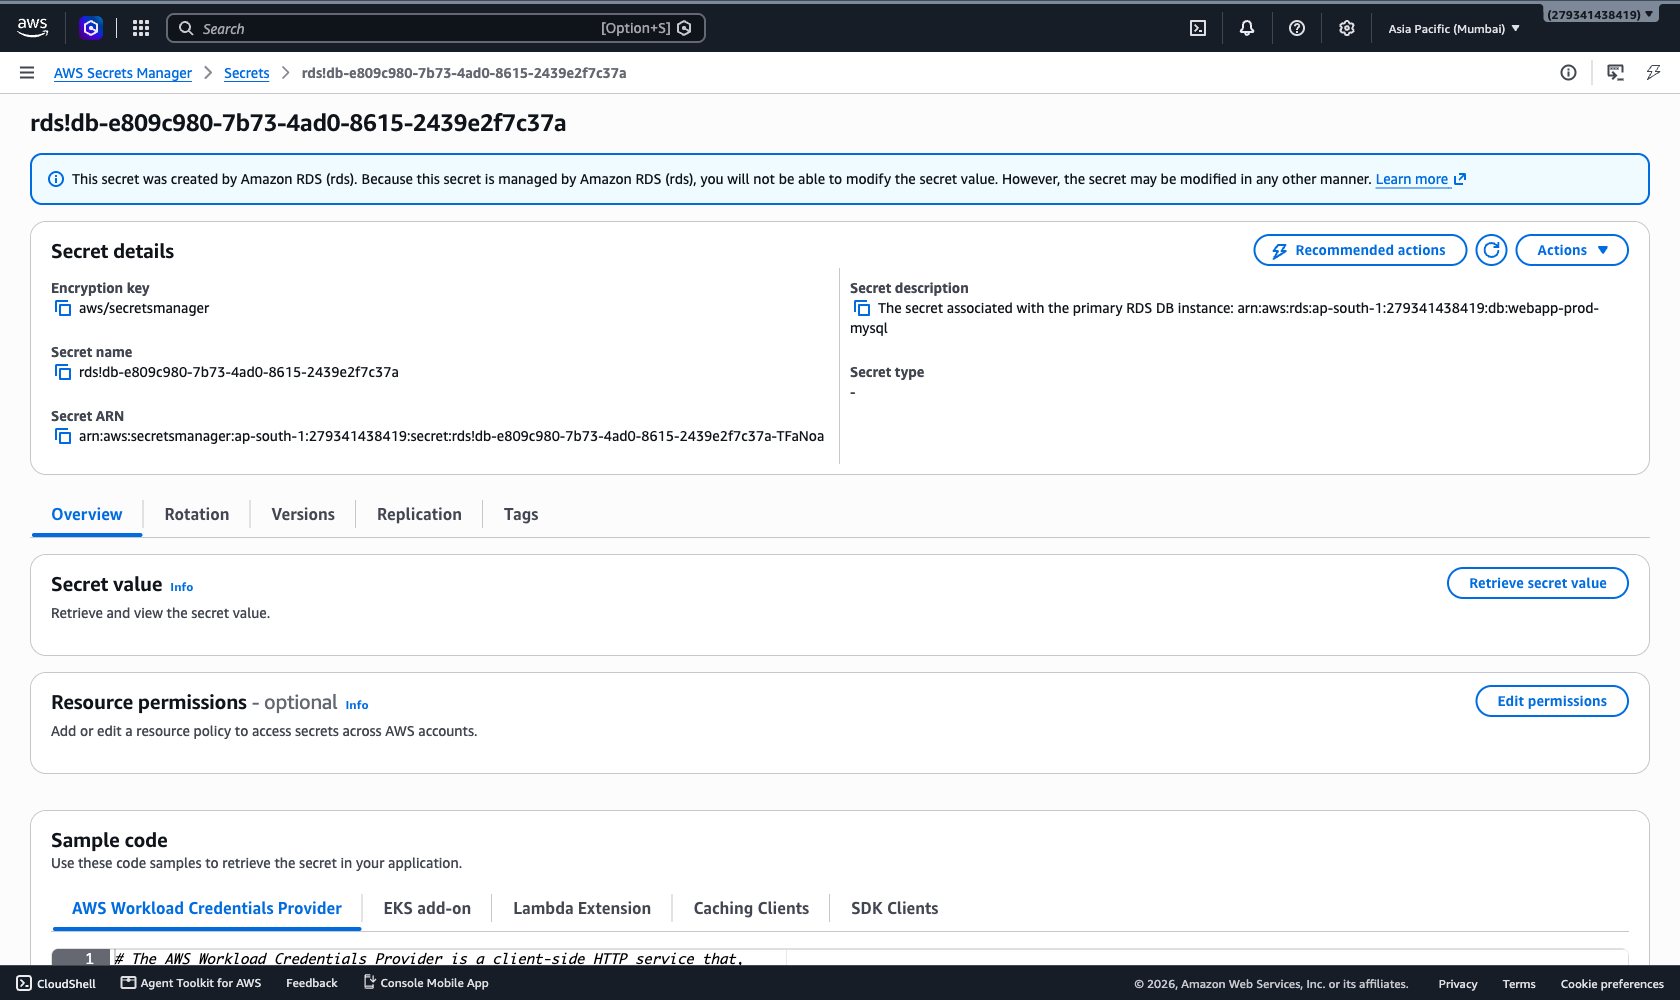
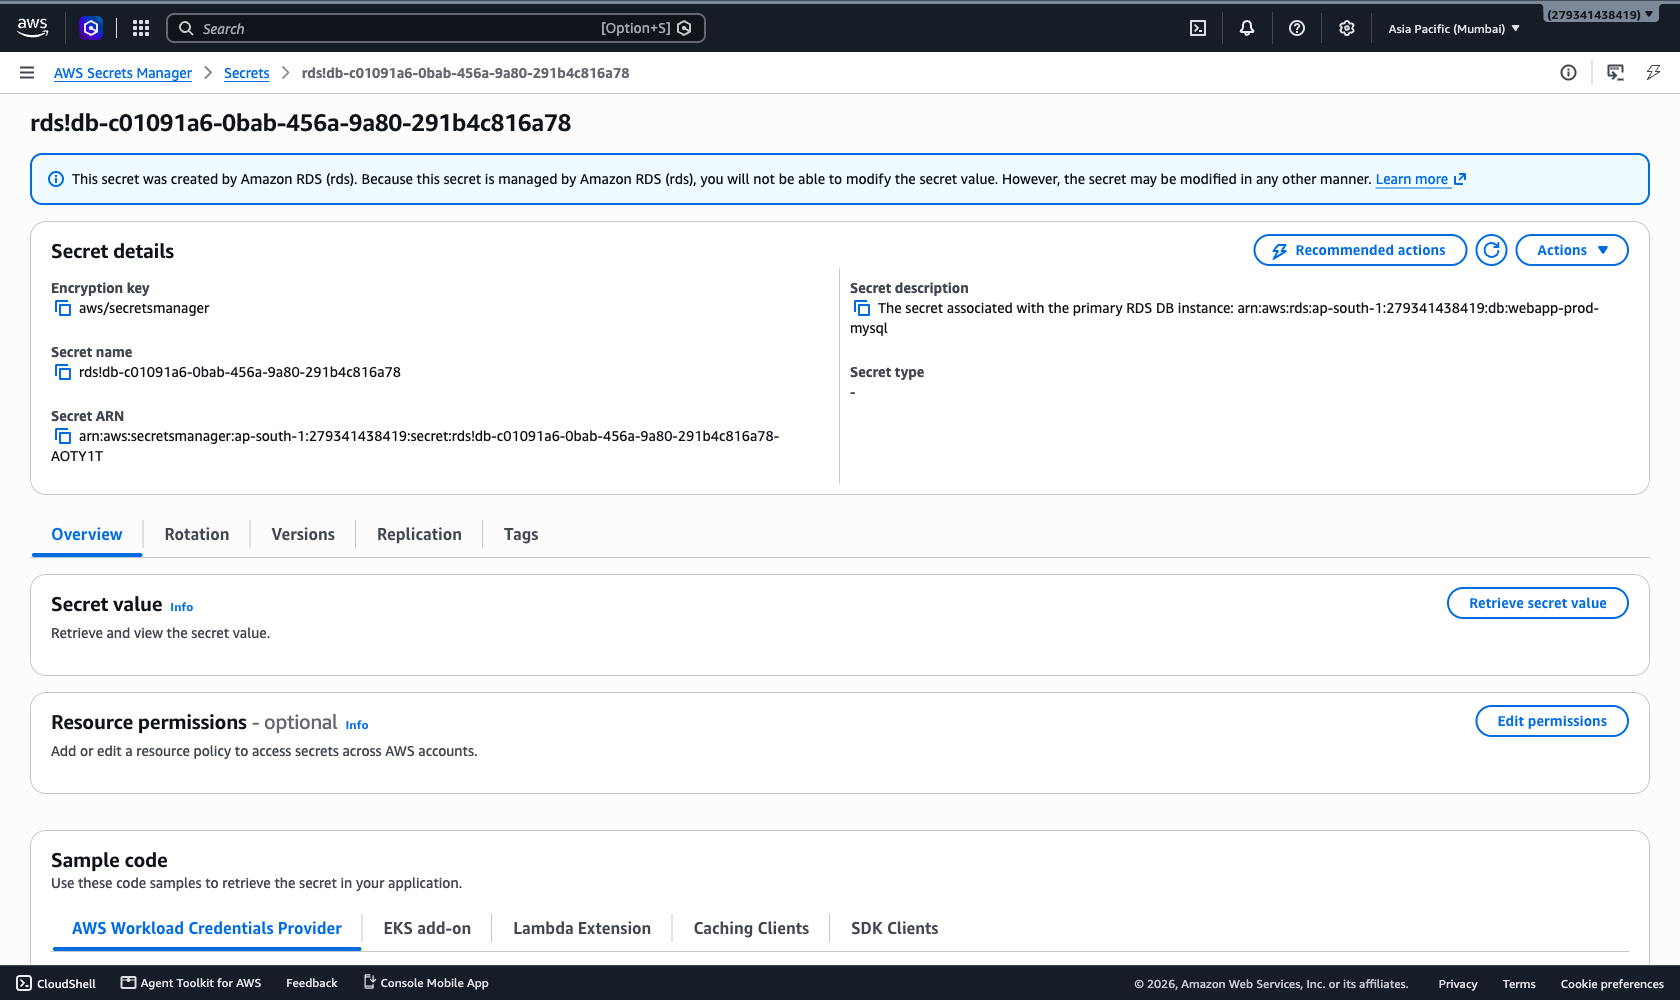
Refresh screenshots after the MySQL 8.4 move

diff --git a/docs/screenshots/README.md b/docs/screenshots/README.md
@@ -18,7 +18,7 @@ Both instances healthy, one in each AZ.
 ![Auto Scaling Group](03-asg.png)
 
 ### 4. RDS MySQL
-Encrypted storage, credentials managed in Secrets Manager, custom parameter group that requires TLS.
+MySQL 8.4 (LTS), encrypted storage, credentials managed in Secrets Manager, custom parameter group that requires TLS.
 
 ![RDS](04-rds.png)
 
@@ -40,6 +40,6 @@ GitHub has Actions disabled on this account at the moment (a support ticket is o
 ![Application workflow](08-workflow-app.png)
 
 ### 9. Terraform
-Output of the last apply, then a fresh plan against the live account: no changes, so the infrastructure matches the code.
+The apply that moved the database to MySQL 8.4, then a fresh plan against the live account: no changes, so the infrastructure matches the code.
 
 ![Terraform apply and plan](09-terraform-apply.png)
